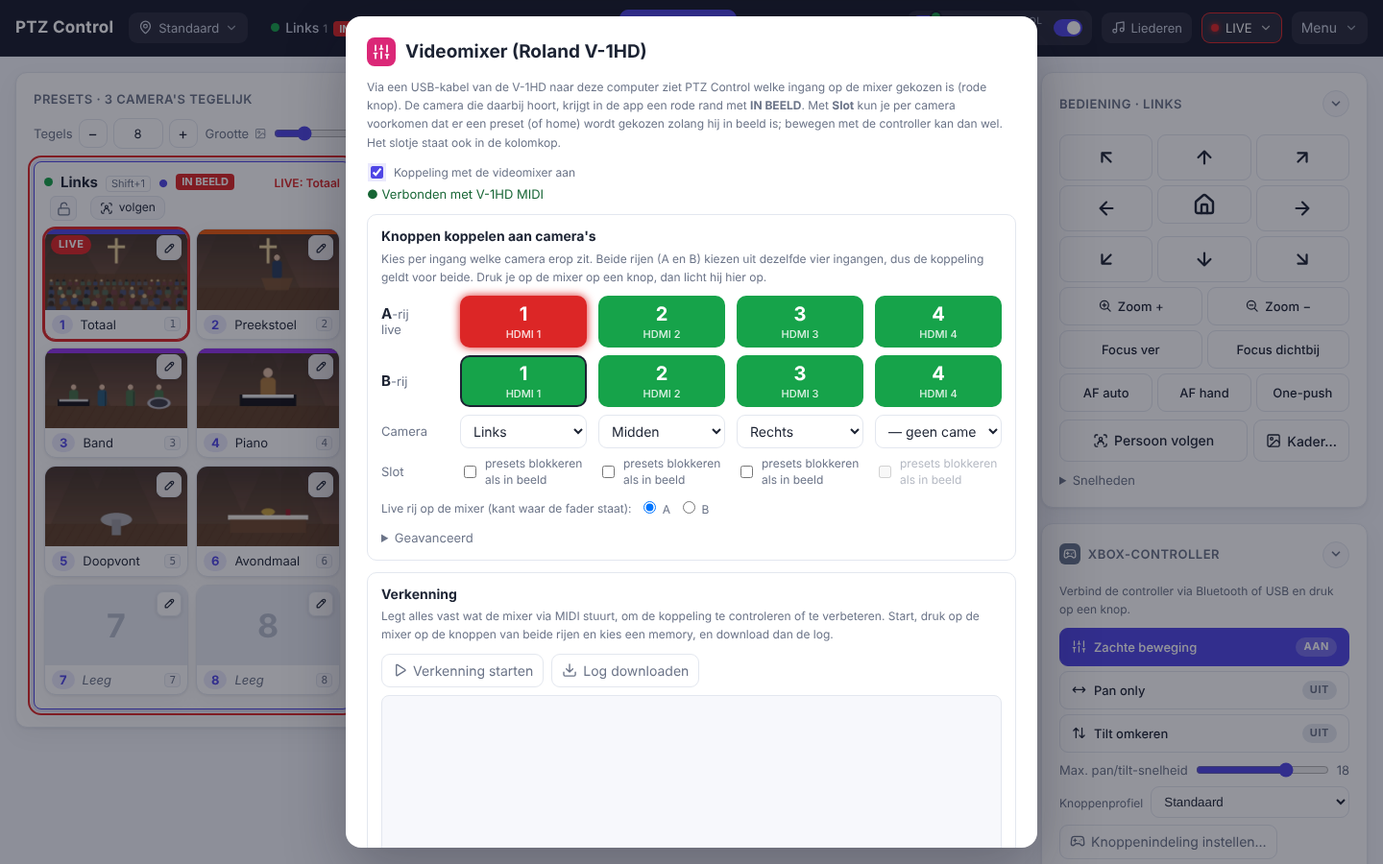
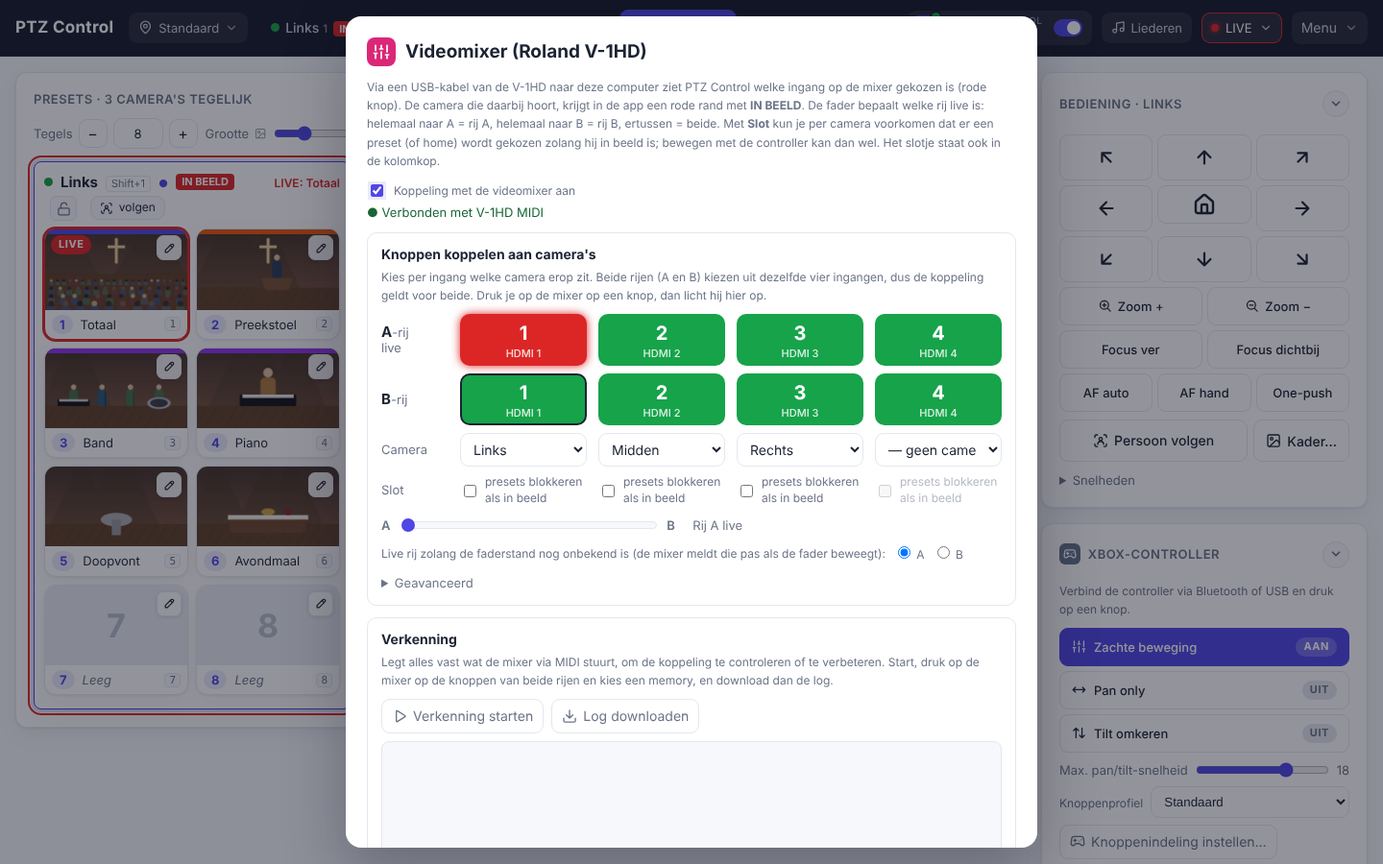
Videomixer: fader bepaalt welke rij live is; slot alleen bij gekoppelde camera
- Fader (CC17): 0 = rij A live, 127 = rij B live, ertussen = beide live
  (beide camera's IN BEELD, slot geldt voor allebei); faderstand zichtbaar
  in het videomixer-venster, onbekend = ingestelde live rij
- Slotje is grijs en werkt niet voor een camera die aan geen ingang van
  de mixer hangt

Claude-Session: https://claude.ai/code/session_01UTh5KacsbPgNPQQ1TMojGg

Changed region(s): [[0.25, 0.0933, 0.75, 0.84], [0.2812, 0.4978, 0.3125, 0.5289]]

diff --git a/index.html b/index.html
@@ -408,6 +408,13 @@
   .colhead .lockbtn .ic { width: 15px; height: 15px; }
   .colhead .lockbtn:hover { border-color: var(--accent); color: var(--text); }
   .colhead .lockbtn.on { background: var(--accent); border-color: var(--accent); color: var(--onaccent); }
+  .colhead .lockbtn.na { opacity: .4; cursor: not-allowed; }
+  .colhead .lockbtn.na:hover { border-color: var(--line); color: var(--muted); }
+  .faderrow { display: flex; align-items: center; gap: 10px; margin-top: 10px; font-size: 13px; }
+  .faderbar { position: relative; flex: 1; max-width: 260px; height: 8px; border-radius: 999px; background: var(--panel2); border: 1px solid var(--line); }
+  .faderbar i { position: absolute; top: 50%; width: 14px; height: 14px; margin: -7px 0 0 -7px; border-radius: 50%; background: var(--accent); }
+  .faderbar.unk i { display: none; }
+  .faderrow b { min-width: 2ch; color: var(--muted); font-weight: 600; }
   .colhead .locktag, .tab .locktag { background: var(--warn); color: var(--onbusy); font-size: 11px; font-weight: 700; border-radius: 4px;
     padding: 1px 6px; white-space: nowrap; flex-shrink: 0; align-self: center; display: inline-flex; gap: 3px; align-items: center; }
   .locktag .ic { width: 11px; height: 11px; }
@@ -1319,6 +1326,7 @@
   <h3><svg class="ic" data-i="sliders" aria-hidden="true"><use href="#i-sliders"/></svg> Videomixer (Roland V-1HD)</h3>
   <p class="small">Via een USB-kabel van de V-1HD naar deze computer ziet PTZ Control welke ingang op de mixer gekozen is (rode knop).
     De camera die daarbij hoort, krijgt in de app een rode rand met <b>IN BEELD</b>.
+    De fader bepaalt welke rij live is: helemaal naar A = rij A, helemaal naar B = rij B, ertussen = beide.
     Met <b>Slot</b> kun je per camera voorkomen dat er een preset (of home) wordt gekozen zolang hij in beeld is; bewegen met de controller kan dan wel. Het slotje staat ook in de kolomkop.</p>
   <label class="small" style="display:flex;gap:8px;align-items:center"><input type="checkbox" id="midiOn"> Koppeling met de videomixer aan</label>
   <div class="mixstat off" id="midiStat"></div>
@@ -1327,7 +1335,8 @@
     <div class="small">Kies per ingang welke camera erop zit. Beide rijen (A en B) kiezen uit dezelfde vier ingangen, dus de koppeling geldt voor beide.
       Druk je op de mixer op een knop, dan licht hij hier op.</div>
     <div class="mixrow" id="mixRow"></div>
-    <div class="row small">Live rij op de mixer (kant waar de fader staat):
+    <div class="faderrow" id="midiFader"><b>A</b><div class="faderbar unk"><i></i></div><b>B</b><span id="midiFaderTxt" class="muted"></span></div>
+    <div class="row small">Live rij zolang de faderstand nog onbekend is (de mixer meldt die pas als de fader beweegt):
       <label><input type="radio" name="midiBus" value="A"> A</label>
       <label><input type="radio" name="midiBus" value="B"> B</label>
       <span class="muted" id="midiSel"></span></div>
@@ -1735,7 +1744,7 @@ function renderPresets() {
       col.innerHTML = `<div class="colhead" title="Klik om deze camera met de pijltjes of de controller te bedienen">
         ${camDot(c.id)}<b>${esc(c.name)}</b>${camst[c.id] && !camst[c.id].ok ? '<span class="offline">niet bereikbaar</span>' : ""}${camHotkey(c, i) ? `<span class="key" title="Sneltoets om deze camera te kiezen (instelbaar bij Sneltoetsen in het menu)">${esc(keyLabel(camHotkey(c, i)))}</span>` : ""}${c.id === ctrlCam ? '<span class="ctl" title="Deze camera wordt bediend">●</span>' : ""}${midiOnAir(c.id) ? '<span class="onair" title="Deze camera is op de videomixer gekozen (rode knop)">IN BEELD</span>' : ""}${osdOpen[c.id] ? '<span class="osdtag" title="Het OSD-menu van deze camera staat open (ook in de livestream)">OSD-MENU</span>' : ""}
         ${presetLocked(c.id) ? `<span class="locktag" title="In beeld en op slot: presets en home zijn geblokkeerd, bewegen met de controller kan wel">${ic("lock")}SLOT</span>` : ""}
-        <span class="livename">${ln ? "LIVE: " + esc(c.presets[ln] || "preset " + ln) : ""}</span>${cfg.midi?.enabled ? `<button class="lockbtn${lockSet(c.id) ? " on" : ""}" title="${lockSet(c.id) ? "Slot aan: zolang deze camera in beeld is (videomixer) kun je geen preset of home kiezen; bewegen met de controller kan wel. Klik = slot uit" : "Slot uit. Klik = presets blokkeren zolang deze camera in beeld is (videomixer); bewegen met de controller blijft mogelijk"}" aria-label="Slot bij in beeld">${ic(lockSet(c.id) ? "lock" : "unlock")}</button>` : ""}${trackBtnHtml(c.id)}</div>`;
+        <span class="livename">${ln ? "LIVE: " + esc(c.presets[ln] || "preset " + ln) : ""}</span>${cfg.midi?.enabled ? `<button class="lockbtn${lockSet(c.id) ? " on" : ""}${midiMapped(c.id) ? "" : " na"}" title="${!midiMapped(c.id) ? "Slot niet mogelijk: deze camera hangt aan geen ingang van de videomixer (koppelen bij Menu → Instellingen → Videomixer)" : lockSet(c.id) ? "Slot aan: zolang deze camera in beeld is (videomixer) kun je geen preset of home kiezen; bewegen met de controller kan wel. Klik = slot uit" : "Slot uit. Klik = presets blokkeren zolang deze camera in beeld is (videomixer); bewegen met de controller blijft mogelijk"}" aria-label="Slot bij in beeld">${ic(lockSet(c.id) ? "lock" : "unlock")}</button>` : ""}${trackBtnHtml(c.id)}</div>`;
       col.querySelector(".colhead").onclick = (e) => {
         if (e.target.closest(".trk")) { e.stopPropagation(); return toggleTrack(c.id); }
         if (e.target.closest(".lockbtn")) { e.stopPropagation(); return toggleLock(c.id); }
@@ -4116,10 +4125,12 @@ $("#btnWizard").onclick = () => { $("#dlg").close(); wizardOpen(); };
 let midi = { live_cams: [] }, midiCfg = null, midiSeq = 0, midiPoll = null;
 const midiOnAir = (id) => !!(midi.enabled && midi.connected && (midi.live_cams || []).includes(id));
 // 🧑 slot per camera (cfg.midi.lock): zolang die camera IN BEELD is, kunnen presets/home niet (server weigert ook)
-const lockSet = (id) => !!(cfg.midi?.enabled && (cfg.midi.lock || []).includes(id));
+const midiMapped = (id) => Object.values(cfg.midi?.map || {}).includes(id);   // camera hangt aan een ingang van de mixer
+const lockSet = (id) => !!(cfg.midi?.enabled && midiMapped(id) && (cfg.midi.lock || []).includes(id));
 const presetLocked = (id) => lockSet(id) && midiOnAir(id);
 async function toggleLock(id) {
   if (viewOnly()) return pinPrompt();
+  if (!midiMapped(id)) return toast(`${camById(id)?.name || "Deze camera"} hangt aan geen ingang van de videomixer: koppel eerst een ingang (Menu → Instellingen → Videomixer).`);
   const cur = cfg.midi?.lock || [], on = !cur.includes(id);
   const lock = on ? [...cur, id] : cur.filter(x => x !== id);
   const j = await post("/api/midi/config", { lock });
@@ -4176,13 +4187,20 @@ function midiRender() {
     });
   }
   // 🧑 op de mixer: alles groen, de gekozen ingang rood (= live). Op de andere rij alleen een rand om de gekozen knop.
+  // 🧑 fader 0 = A live, 127 = B live, ertussen beide live (server: live_buses)
+  const liveBuses = midi.connected && midi.live_buses?.length ? midi.live_buses : [midiCfg.live_bus];
+  const fb = $("#midiFader .faderbar"), fpos = midi.connected ? midi.fader : null;
+  fb.classList.toggle("unk", fpos == null);
+  if (fpos != null) fb.querySelector("i").style.left = (fpos * 100) + "%";
+  $("#midiFaderTxt").textContent = !midi.connected ? "" : fpos == null ? `Faderstand onbekend: rij ${midiCfg.live_bus} geldt als live`
+    : liveBuses.length > 1 ? "Fader in het midden: A én B live" : `Rij ${liveBuses[0]} live`;
   row.querySelectorAll(".mixkey").forEach(k => {
-    const i = +k.dataset.in, bus = k.dataset.bus, isLive = bus === midiCfg.live_bus;
+    const i = +k.dataset.in, bus = k.dataset.bus, isLive = liveBuses.includes(bus);
     const chosen = midi.connected && midi.sel?.[bus] === i;
     k.className = "mixkey" + (midi.connected ? (chosen && isLive ? " red" : " green") : "")
       + (chosen && !isLive ? " sel" : "") + (midi.pressed === i && chosen ? " hit" : "");
   });
-  row.querySelectorAll("[data-buslbl]").forEach(l => l.textContent = l.dataset.buslbl === midiCfg.live_bus ? "live" : "");
+  row.querySelectorAll("[data-buslbl]").forEach(l => l.textContent = liveBuses.includes(l.dataset.buslbl) ? "live" : "");
   row.querySelectorAll("select").forEach(sel => {
     const i = sel.dataset.in, cur = midiCfg.map[i] || "";
     if (sel === document.activeElement) return;
@@ -4527,7 +4545,7 @@ const TOUR_STEPS = [
   { target: ["#btnPractice"], menu: "main", title: ic("cone") + " Oefenstand", text: () => `<p>Oefenen zonder dat er iets beweegt in de kerk: PTZ Control schakelt over op <b>nagebootste camera's</b> met dezelfde camera's, presets en foto's. Handig voor nieuwe vrijwilligers.</p><p>Geldt voor <b>alle schermen</b> (oranje balk en rand), de videomixer wordt losgekoppeld en wat je verandert wordt niet bewaard. Stoppen via de balk of hier. <b>Niet tijdens een dienst.</b></p>` },
   { target: ["#miSet"], menu: "main", sub: "subSet", title: ic("settings") + " Instellingen", text: () => `<p>Alles om de app in te richten: camera's, videomixer, liederen, sneltoetsen, pincode, back-up en het presetaantal testen. Wijs het aan met de muis of tik erop; op een smal scherm klapt de lijst onder het item open.</p>` },
   { target: ["#btnSettings"], menu: "main", title: ic("video") + " Camera's", text: () => `<p>Camera's toevoegen of wijzigen: naam, IP-adres, protocol (HTTP of VISCA), inlog, videobron en volginstellingen. Begin hier als je nog geen camera's ziet.</p><p><b>🧭 Hulp bij instellen…</b> opent de wizard: camera's zoeken in het netwerk, testen en presets ophalen.</p>` },
-  { target: ["#btnMidi"], menu: "main", title: ic("sliders") + " Videomixer (MIDI)", text: () => `<p>Koppel de Roland V-1HD via een USB-kabel. Het venster toont beide rijen (A en B); kies per ingang (1–4) welke camera erop zit; de camera die op de mixer gekozen is (rode knop) krijgt in de app een rode rand met <b>IN BEELD</b>. Zo zie je welke camera je niet moet bewegen.</p><p>Met <b>Slot</b> (ook het slotje in de kolomkop) blokkeer je presets en home zolang een camera in beeld is; bijsturen met de controller kan dan nog wel.</p><p>Met <b>Verkenning</b> leg je vast wat de mixer stuurt en download je de log.</p>` },
+  { target: ["#btnMidi"], menu: "main", title: ic("sliders") + " Videomixer (MIDI)", text: () => `<p>Koppel de Roland V-1HD via een USB-kabel. Het venster toont beide rijen (A en B); kies per ingang (1–4) welke camera erop zit; de camera die op de mixer gekozen is (rode knop) krijgt in de app een rode rand met <b>IN BEELD</b>. De fader telt mee: helemaal A = rij A, helemaal B = rij B, ertussen = beide live. Zo zie je welke camera je niet moet bewegen.</p><p>Met <b>Slot</b> (ook het slotje in de kolomkop) blokkeer je presets en home zolang een camera in beeld is; bijsturen met de controller kan dan nog wel.</p><p>Met <b>Verkenning</b> leg je vast wat de mixer stuurt en download je de log.</p>` },
   { target: ["#btnSongs"], menu: "main", title: ic("music") + " Liederen", text: () => `<p>Koppel <b>ProPresenter</b> (via het netwerk) en/of de <b>Voordienst app</b> (API-adres met token). PTZ Control ziet dan welk nummer er op het scherm staat en zet elk nummer in het <b>activiteitenlog</b>, met de plek in de playlist en het nummer uit de Voordienst app.</p><p>Zo zie je na de dienst precies wat er gezongen is. De camera's bewegen hierdoor niet.</p>` },
   { target: ["#btnKeys"], menu: "main", title: ic("keyboard") + " Sneltoetsen", text: () => `<p>Stel voor elke actie en elke camera een eigen toets in. Dubbele toetsen worden rood gemarkeerd.</p><p>Welke toetsen er nu zijn ingesteld, zie je altijd met <kbd>${esc(keyLabel(keyOf("help")) || "?")}</kbd> (<b>hulp</b>), ook op volledig scherm.</p>` },
   { target: ["#btnAccess"], menu: "main", title: ic("lock") + " Toegang (pincode)", text: () => `<p>Stel een <b>pincode</b> in: dan kan iedereen op het netwerk meekijken, maar alleen wie de pincode invoert kan de camera's bedienen. Zonder pincode zie je rechtsboven <b>${ic("lock")} Alleen kijken</b> en een gele balk.</p><p>Op deze computer zelf is nooit een pincode nodig. Hier kun je ook een apparaat vergrendelen of alle apparaten uitloggen.</p>` },

diff --git a/roland_v1hd.py b/roland_v1hd.py
@@ -8,7 +8,7 @@ Aannames (⚠ niet getest op de echte mixer):
 - Bij een druk op een ingangsknop stuurt de V-1HD (MIDI OUT = OUT, en altijd
   via USB) CC0 (bank MSB) + CC32 (LSB) + program change:
   bank 00 = A-bus ingang 1-4, bank 01 = B-bus ingang 1-4, bank 50H = memory 1-8.
-- CC17 = A/B-fader. Welke kant 0 is (A of B) is nog onbekend.
+- CC17 = A/B-fader. 🧑 0 = A live, 127 = B live, alles ertussen = beide live (bevestigd 16 nov 2026).
 - Via SysEx RQ1 op 71 00 00 (fader, 14-bit) en 71 00 08/09 (video sel A/B)
   en 73 02 00-18 (knoplampjes) is de huidige stand op te vragen.
 """
@@ -77,6 +77,7 @@ class V1HDState:
         self.sel = {"A": None, "B": None}   # ingang 1-4 per bus
         self.fader = None           # 0-127 (CC17) of 0-16383 (SysEx, zie fader14)
         self.fader14 = None
+        self.cc_fader = False       # CC17 ontvangen (gaat voor de opgevraagde fader14)
         self.memory = None
         self.leds = None            # ruwe bytes 73 02 00..18
         self.mem = {}               # adres -> waarde, voor alle SysEx-antwoorden
@@ -91,6 +92,7 @@ class V1HDState:
                 self.bank = (self.bank[0], v)
             elif c == 17:
                 self.fader = v
+                self.cc_fader = True
                 return "fader %d" % v
             elif c == 19:
                 return "overgang: %s" % {0: "WIPE", 1: "MIX", 2: "CUT"}.get(v, v)
@@ -134,26 +136,32 @@ class V1HDState:
             self.leds = leds
         return ", ".join(out) or None
 
-    def live(self, live_bus="A", a_is_zero=True):
-        """Welke ingang staat (vermoedelijk) op program.
-
-        🧑 De fader wordt in de kerk nooit gebruikt: hij staat vast aan één kant,
-        dus één rij (live_bus) is altijd program en een knop daarin = direct
-        schakelen. Is de faderstand wel bekend (SysEx/CC17), dan gaat die voor.
-        ⚠ Fader helemaal aan één kant = die bus live; ertussen → beide.
-        a_is_zero: fader 0 = A (nog niet gecontroleerd).
-        """
+    def fader_pos(self):
+        """Faderstand 0..1 (0 = A, 1 = B) of None als onbekend.
+        CC17 (bewogen fader) gaat voor; anders de opgevraagde 14-bits waarde (⚠ codering niet gecontroleerd)."""
+        if self.cc_fader and self.fader is not None:
+            return self.fader / 127.0
         if self.fader14 is not None:
-            pos = self.fader14 / 16383.0
-        elif self.fader is not None:
-            pos = self.fader / 127.0
-        else:
-            v = self.sel.get(live_bus)
-            return [v] if v else None
-        if not a_is_zero:
-            pos = 1 - pos
-        if pos <= 0.02:
-            return [self.sel["A"]]
-        if pos >= 0.98:
-            return [self.sel["B"]]
-        return [self.sel["A"], self.sel["B"]]
+            return self.fader14 / 16383.0
+        return None
+
+    def live_buses(self, live_bus="A"):
+        """🧑 Fader op 0 = A live, op 127 = B live, alles ertussen = beide live.
+        Faderstand onbekend → de ingestelde rij (live_bus)."""
+        pos = self.fader_pos()
+        if pos is None:
+            return [live_bus]
+        if pos <= 0.0:
+            return ["A"]
+        if pos >= 1.0:
+            return ["B"]
+        return ["A", "B"]
+
+    def live(self, live_bus="A"):
+        """Ingang(en) die op program staan (zie live_buses), zonder dubbelen."""
+        out = []
+        for bus in self.live_buses(live_bus):
+            v = self.sel.get(bus)
+            if v and v not in out:
+                out.append(v)
+        return out or None

diff --git a/midi.py b/midi.py
@@ -5,10 +5,10 @@ zonder die packages start de server gewoon en meldt de status waarom MIDI niet w
 
 Config (per workspace, in cameras.json): cfg.midi = {
     enabled: bool, port: "V-1HD" (deel van de poortnaam), dev: 16 (SysEx device-ID),
-    live_bus: "A" | "B" (rij aan de kant waar de fader staat), map: {"1": camid, ... "4": camid},
+    live_bus: "A" | "B" (live rij zolang de faderstand nog onbekend is), map: {"1": camid, ... "4": camid},
     lock: [camid, ...] (presets vergrendeld zolang die camera in beeld is)
 }
-🧑 De fader wordt nooit gebruikt; op de mixer is de gekozen ingang rood (= live).
+🧑 Fader (CC17): 0 = A live, 127 = B live, ertussen = beide live. Onbekend → live_bus.
 ⚠ Niet getest op de echte mixer; de lampjes (73 02 xx) worden alleen gelogd,
 live wordt bepaald uit de knopdrukken (program change) en video sel A/B (71 00 08/09).
 """
@@ -208,9 +208,10 @@ class Watcher:
 
     def _snapshot(self):
         cfg = self._cfg()
-        # 🧑 fader wordt niet gebruikt: alleen de ingestelde rij telt (faderstand negeren, kant is onbekend)
-        sel = self.state.sel.get(cfg["live_bus"]) if self.port else None
-        live = [sel] if sel else []
+        # 🧑 fader 0 = A, 127 = B, ertussen beide live; faderstand onbekend → ingestelde rij
+        buses = self.state.live_buses(cfg["live_bus"]) if self.port else []
+        live = (self.state.live(cfg["live_bus"]) or []) if self.port else []
+        pos = self.state.fader_pos() if self.port else None
         cams = self._cache[2] if self._cache else set()
         live_cams = [cfg["map"][str(i)] for i in live if cfg["map"].get(str(i)) in cams]
         return {
@@ -223,6 +224,8 @@ class Watcher:
             "ports": self.ports,
             "sel": dict(self.state.sel),
             "live": live,
+            "live_buses": buses,
+            "fader": None if pos is None else round(pos, 3),
             "live_cams": live_cams,
             "pressed": self.pressed if time.time() - self.pressed_at < 1.5 else None,
             "recording": self.recording,
@@ -233,6 +236,7 @@ class Watcher:
         with self.lock:
             snap = self._snapshot()
         key = (snap["connected"], snap["port"], snap["error"], tuple(snap["live"]), tuple(snap["live_cams"]),
+               tuple(snap["live_buses"]), snap["fader"],
                snap["sel"].get("A"), snap["sel"].get("B"), snap["pressed"], snap["recording"], tuple(snap["ports"]),
                snap["enabled"])
         if force or key != self._last_key:
@@ -303,7 +307,10 @@ class Watcher:
         self._log("%-40s %s" % (hexs(raw), uitleg or d.get("type")))
         if uitleg and d.get("type") == "program_change":
             cfg = self._cfg()
-            self._log("  → live (rij %s): %s" % (cfg["live_bus"], st.sel.get(cfg["live_bus"]) or "-"))
+            self._log("  → live (rij %s): %s" % ("+".join(st.live_buses(cfg["live_bus"])), st.live(cfg["live_bus"]) or "-"))
+        elif d.get("type") == "control_change" and d.get("control") == 17:
+            cfg = self._cfg()
+            self._log("  → live rij: %s, ingang %s" % ("+".join(st.live_buses(cfg["live_bus"])), st.live(cfg["live_bus"]) or "-"))
 
     def _run(self):
         last_poll = 0

diff --git a/docs/tools/nep_v1hd.py b/docs/tools/nep_v1hd.py
@@ -21,6 +21,7 @@ class FakeV1HD:
     def __init__(self, a=1, b=1, name="V-1HD"):
         self.name = name
         self.sel = {"A": a, "B": b}
+        self.fad = 0            # faderstand 0..127 (0 = A live, 127 = B live)
         self.q = collections.deque()
         self.lock = threading.Lock()
         self.sent = []
@@ -32,6 +33,12 @@ class FakeV1HD:
             self.q.append(({"type": "control_change", "channel": 0, "control": 0, "value": msb}, [0xB0, 0, msb]))
             self.q.append(({"type": "control_change", "channel": 0, "control": 32, "value": 0}, [0xB0, 32, 0]))
             self.q.append(({"type": "program_change", "channel": 0, "program": n - 1}, [0xC0, n - 1]))
+
+    def fader(self, v):
+        """Fader bewegen: CC17 zoals de echte mixer stuurt."""
+        with self.lock:
+            self.fad = max(0, min(127, int(v)))
+            self.q.append(({"type": "control_change", "channel": 0, "control": 17, "value": self.fad}, [0xB0, 17, self.fad]))
 
     def leds(self):
         led = [0] * rv.LED_SIZE
@@ -46,7 +53,8 @@ class FakeV1HD:
             return
         addr = tuple(d[7:10])
         if addr == rv.ADDR_VIDEO:
-            vals = [0, 0] + [0] * 6 + [self.sel["A"] - 1, self.sel["B"] - 1]
+            f14 = round(self.fad * 16383 / 127)   # ⚠ aangenomen: 14-bit als 2× 7 bits (MSB, LSB)
+            vals = [f14 >> 7, f14 & 0x7F] + [0] * 6 + [self.sel["A"] - 1, self.sel["B"] - 1]
         elif addr == rv.ADDR_LED:
             vals = self.leds()
         else:

diff --git a/ptz_control.py b/ptz_control.py
@@ -2356,7 +2356,10 @@ class Handler(BaseHTTPRequestHandler):
         if u.path == "/api/liederen/check":
             return self._send(200, {"ok": True, **LD.check_now()})
         if u.path == "/api/midi/fake_press" and _midi.FAKE:   # alleen met PTZ_MIDI_FAKE (tests)
-            _midi.FAKE.press("B" if body.get("bus") == "B" else "A", clamp(body.get("n", 1), 1, 4))
+            if "fader" in body:
+                _midi.FAKE.fader(clamp(body.get("fader"), 0, 127))
+            else:
+                _midi.FAKE.press("B" if body.get("bus") == "B" else "A", clamp(body.get("n", 1), 1, 4))
             return self._send(200, {"ok": True})
         if u.path == "/api/midi/record":
             MIDI.set_recording(bool(body.get("on")))

diff --git a/CLAUDE.md b/CLAUDE.md
@@ -292,14 +292,14 @@ Legenda: ✅ geverifieerd (getest of in officiële docs gevonden) · ⚠ aann
 
 ## 9b. Videomixer: Roland V-1HD via MIDI (sinds v1.0.3; verkend op branch `verken/midi-roland`)
 
-- 🧑 Videomixer is een **Roland V-1HD** (bevestigd 10 nov 2026). 🧑 **De fader wordt nooit gebruikt** (staat vast aan één kant). 🧑 **Op de mixer zijn alle ingangsknoppen groen; de gekozen ingang wordt rood = live** (groen ≠ preview). 🧑 Mixer heeft **2 rijen (A/B) van 4 knoppen**; beide rijen kiezen uit dezelfde 4 HDMI-ingangen.
+- 🧑 Videomixer is een **Roland V-1HD** (bevestigd 10 nov 2026). 🧑 **Fader telt mee** (16 nov 2026, vervangt "de fader wordt nooit gebruikt"): CC17 **0 = A live, 127 = B live, alles ertussen = beide live**. 🧑 **Op de mixer zijn alle ingangsknoppen groen; de gekozen ingang wordt rood = live** (groen ≠ preview). 🧑 Mixer heeft **2 rijen (A/B) van 4 knoppen**; beide rijen kiezen uit dezelfde 4 HDMI-ingangen.
 - ✅ Uit de Remote Control Guide: USB-MIDI + DIN (wat de mixer zelf maakt gaat altijd naar USB); bij een ingangsknop CC0/CC32 + program change (bank 0 = A, 1 = B, 50H = memory), fader CC17; SysEx RQ1 (model-ID `00 00 00 20`, device-ID standaard 10H) voor fader/video sel (`71 00 00/08/09`) en knoplampjes (`73 02 00–18`). Details: `docs/midi-roland-v1hd.md`.
 - 🧑 **Functie (op verzoek):** Menu → **🎛 Videomixer (MIDI)** (`#btnMidi`, dialoog `#dlgMidi`): aan/uit, status, **beide rijen visueel** (`#mixRow`: knop rood = gekozen op de live rij, rand = gekozen op de andere rij, oplichten bij een druk), **per ingang 1–4 een camera kiezen** (geldt voor beide rijen), live rij A/B, geavanceerd (poortnaam, device-ID), en **Verkenning** (opnemen starten/stoppen, live log, `⬇ Log downloaden`).
-- 🧑 **Slot bij IN BEELD** (op verzoek, 16 nov 2026: "lock op camera als deze via midi actief is: geen preset aanklikken, wel nog met de Xbox-controller bewegen"): `cfg.midi.lock = [camid…]` (`midi.norm_cfg`, max. 32; via `POST /api/midi/config`). Server: `onair_locked(cam_id)` = MIDI aan + camera in `lock` + verbonden + in `live_cams` → `do_action` weigert `LOCK_ACTIONS` (`preset_call`, `home`) en `undo_preset` met `lock_error` (ValueError → 400, gelogd als fout). `move`/`zoom`/`focus`/`stop`, `preset_set` en volgen blijven mogelijk. UI: `lockSet(id)` / `presetLocked(id)`; `presetClick` stopt vooraf met een toast (geen optimistische LIVE), dus ook toetsen 1–9 en Xbox-presetknoppen (lopen via `presetClick`); slotknop `.lockbtn` (icoon `lock`/`unlock`, indigo = aan, alleen als MIDI aan, niet in alleen-kijken) in de kolomkop → `toggleLock`; in beeld + slot: kolom `.locked` (tegels grijs, `not-allowed`; in opslaan-modus normaal), badge `.locktag` **SLOT** (`--warn`) in kolomkop en tabblad; `#dlgMidi` rij *Slot* met een vinkje per ingang (`data-lockin`, uit als er geen camera op zit). `.colhead` heeft `flex-wrap` gekregen (kop liep anders over). Screenshot `slot.png`. ✅ Getest (API + Playwright, nep-mixer): op slot + in beeld → preset/home 400 met melding, move/preset_set gaan door (naar de camera), andere camera niet geblokkeerd, mixer naar andere ingang → weer vrij; tegelklik → toast, geen `/api/cmd`; vinkje in het venster zet het slot uit. ⚠ Echte mixer niet getest.
+- 🧑 **Slot bij IN BEELD** (op verzoek, 16 nov 2026: "lock op camera als deze via midi actief is: geen preset aanklikken, wel nog met de Xbox-controller bewegen"): `cfg.midi.lock = [camid…]` (`midi.norm_cfg`, max. 32; via `POST /api/midi/config`). Server: `onair_locked(cam_id)` = MIDI aan + camera in `lock` + verbonden + in `live_cams` → `do_action` weigert `LOCK_ACTIONS` (`preset_call`, `home`) en `undo_preset` met `lock_error` (ValueError → 400, gelogd als fout). `move`/`zoom`/`focus`/`stop`, `preset_set` en volgen blijven mogelijk. UI: `lockSet(id)` / `presetLocked(id)`; `presetClick` stopt vooraf met een toast (geen optimistische LIVE), dus ook toetsen 1–9 en Xbox-presetknoppen (lopen via `presetClick`); slotknop `.lockbtn` (icoon `lock`/`unlock`, indigo = aan, alleen als MIDI aan, niet in alleen-kijken) in de kolomkop → `toggleLock`; in beeld + slot: kolom `.locked` (tegels grijs, `not-allowed`; in opslaan-modus normaal), badge `.locktag` **SLOT** (`--warn`) in kolomkop en tabblad; `#dlgMidi` rij *Slot* met een vinkje per ingang (`data-lockin`, uit als er geen camera op zit). 🧑 **Slot alleen bij een gekoppelde camera** (16 nov 2026: "als kanaal videomixer geen input heeft moet knop gelockt worden"): `midiMapped(id)` = camera staat in `cfg.midi.map`; anders `.lockbtn.na` (grijs, `not-allowed`, tooltip + toast bij klik) en `lockSet` false. `.colhead` heeft `flex-wrap` gekregen (kop liep anders over). Screenshot `slot.png`. ✅ Getest (API + Playwright, nep-mixer): op slot + in beeld → preset/home 400 met melding, move/preset_set gaan door (naar de camera), andere camera niet geblokkeerd, mixer naar andere ingang → weer vrij; tegelklik → toast, geen `/api/cmd`; vinkje in het venster zet het slot uit. ⚠ Echte mixer niet getest.
 - **Tally in de app**: camera in `live_cams` → kolom `.col.onair` (rode rand) + badge **IN BEELD** in de kolomkop en op het tabblad (`midiOnAir()`). Bewust een ander woord dan het bestaande *LIVE* op de tegel (= laatst opgeroepen preset).
 - Config `cfg.midi = {enabled, port, dev, live_bus, map: {"1": camid, …}}` (per workspace, in back-ups). **Alleen via `POST /api/midi/config`**; `POST /api/config` behoudt altijd de bestaande `midi` (zoals `saved_*`). Herverbinden alleen bij wijziging van aan/uit/poort/device-ID (`Watcher.config_changed`).
 - API: `GET /api/midi` (status + `config`), `POST /api/midi/config`, `POST /api/midi/record {on}`, `GET /api/midi/log?since=n`, `GET /api/midi/log.txt`; SSE `midi` (`connected`, `port`, `ports`, `sel`, `live`, `live_cams`, `pressed`, `recording`, `error`). Workspace wisselen → `MIDI.refresh()`.
-- **Live bepalen**: laatst gekozen ingang op de ingestelde live rij (program change + bij verbinden/elke 0,5 s `71 00 08/09` opvragen). Faderstand wordt genegeerd (kant onbekend). De lampjes (`73 02 xx`) worden elke 0,5 s opgevraagd maar **alleen gelogd**: ⚠ welk byte bij welke knop hoort en welke waarde rood is, is nog niet bekend → eerst een verkenningslog van de echte mixer.
+- **Live bepalen**: `V1HDState.live_buses(live_bus)` → `fader_pos()` (0..1): CC17 gaat voor zodra die binnenkwam (`cc_fader`), anders de opgevraagde 14-bits fader uit `71 00 00/01` (⚠ codering MSB/LSB aangenomen, niet gecontroleerd); `pos <= 0` → [A], `>= 1` → [B], ertussen → [A, B]; onbekend → [`live_bus`] (instelling heet nu *live rij zolang de faderstand onbekend is*). `live()` = gekozen ingangen op die rijen (program change + elke 0,5 s `71 00 08/09`), zonder dubbelen; beide live → beide camera's in `live_cams` (IN BEELD, slot geldt voor beide). SSE `midi` heeft `live_buses` en `fader` (0..1 of null); `#dlgMidi` toont de faderstand (`#midiFader`, tekst *Rij A live* / *A én B live* / *onbekend*), *live*-label en rode knop per live rij. Nep-mixer: `FakeV1HD.fader(v)` (CC17 + fader14 in het RQ1-antwoord), `POST /api/midi/fake_press {fader}`. ✅ Getest (API + Playwright): 0 → A, 64/126 → A+B, 127 → B, slot op beide camera's bij A+B. De lampjes (`73 02 xx`) worden elke 0,5 s opgevraagd maar **alleen gelogd**: ⚠ welk byte bij welke knop hoort en welke waarde rood is, is nog niet bekend → eerst een verkenningslog van de echte mixer.
 - `midi.py` leest config/cameralijst hooguit 1×/s (cache); start ook zonder `mido`/`python-rtmidi` (status meldt waarom). Packages staan in `requirements.txt` en `packaging/requirements-build.txt`, hiddenimports in de spec. ⚠ `python-rtmidi` in de losse app (PyInstaller) niet getest.
 - Testen zonder mixer: `PTZ_MIDI_FAKE=<ingang>` gebruikt `docs/tools/nep_v1hd.py` (knopdrukken + antwoorden op RQ1; lampjes-codering verzonnen) en zet `POST /api/midi/fake_press {bus, n}` aan. Demodata (`demo.py`) heeft een midi-koppeling, screenshots draaien met `PTZ_MIDI_FAKE=1`. ✅ Getest (API + Playwright): verbinden, koppelen, druk → rood/oplichten, IN BEELD op kolom en tab, rij B, verkenningslog + download, config niet gewist door `/api/config`.
 - ⚠ Niet getest op de echte mixer/Mac: poortnaam ("V-1HD"), device-ID, of program change via USB echt binnenkomt bij een knopdruk, A/B- vs PGM/PST-modus.

diff --git a/README.md b/README.md
@@ -288,8 +288,9 @@ Sluit de V-1HD met een **USB-kabel** aan op de computer waar PTZ Control draait 
 - Vink **Koppeling met de videomixer aan** aan. Bovenin staat of de mixer gevonden is.
 - Het venster toont beide rijen van de mixer (A en B, elk knop 1–4). Beide rijen kiezen uit dezelfde vier HDMI-ingangen, dus je kiest per ingang één keer welke camera erop zit. Druk je op de mixer op een knop, dan licht hij in het venster op; de gekozen ingang op de live rij is rood, net als op de mixer.
 - De camera die op de mixer gekozen is, krijgt in de app een **rode rand** en **IN BEELD** (in de kolom en op het tabblad). Zo zie je meteen welke camera je niet moet verplaatsen.
+- **Slot** kan alleen voor een camera die aan een ingang van de mixer hangt; anders is het slotje grijs.
 - **Slot**: zet je een camera op slot (het **slotje** in de kolomkop, of *Slot* per ingang in dit venster), dan kan er **geen preset en geen home** worden gekozen zolang die camera in beeld is: niet met een klik op een tegel, niet met de toetsen 1–9 en niet met de presetknoppen van de Xbox-controller. **Bijsturen met de controller** (stick, zoom, focus) en het toetsenbord kan wel. De kolom krijgt dan een oranje **SLOT** en de tegels worden grijs. Zodra je op de mixer naar een andere camera schakelt, werkt alles weer. Presets *opslaan* kan op slot wel. Het slot geldt voor alle schermen (de server weigert de opdracht ook).
-- **Live rij**: de rij aan de kant waar de fader staat (de fader wordt niet gebruikt). Standaard A.
+- **Fader**: helemaal naar **A** (0) = rij A live, helemaal naar **B** (127) = rij B live, **ertussen = beide rijen live** (beide camera's krijgen IN BEELD, en een slot geldt dan voor allebei). In het venster zie je de faderstand. De mixer meldt de stand pas als de fader beweegt; tot dan geldt de ingestelde **live rij** (standaard A).
 - **Verkenning**: legt alles vast wat de mixer via MIDI stuurt. Start, druk op de knoppen van beide rijen en kies een memory, en klik **Log downloaden**. Handig als de koppeling niet klopt.
 - Op de mixer: SETUP → MIDI → *MIDI OUT* op **OUT** (via USB stuurt hij altijd).
 
